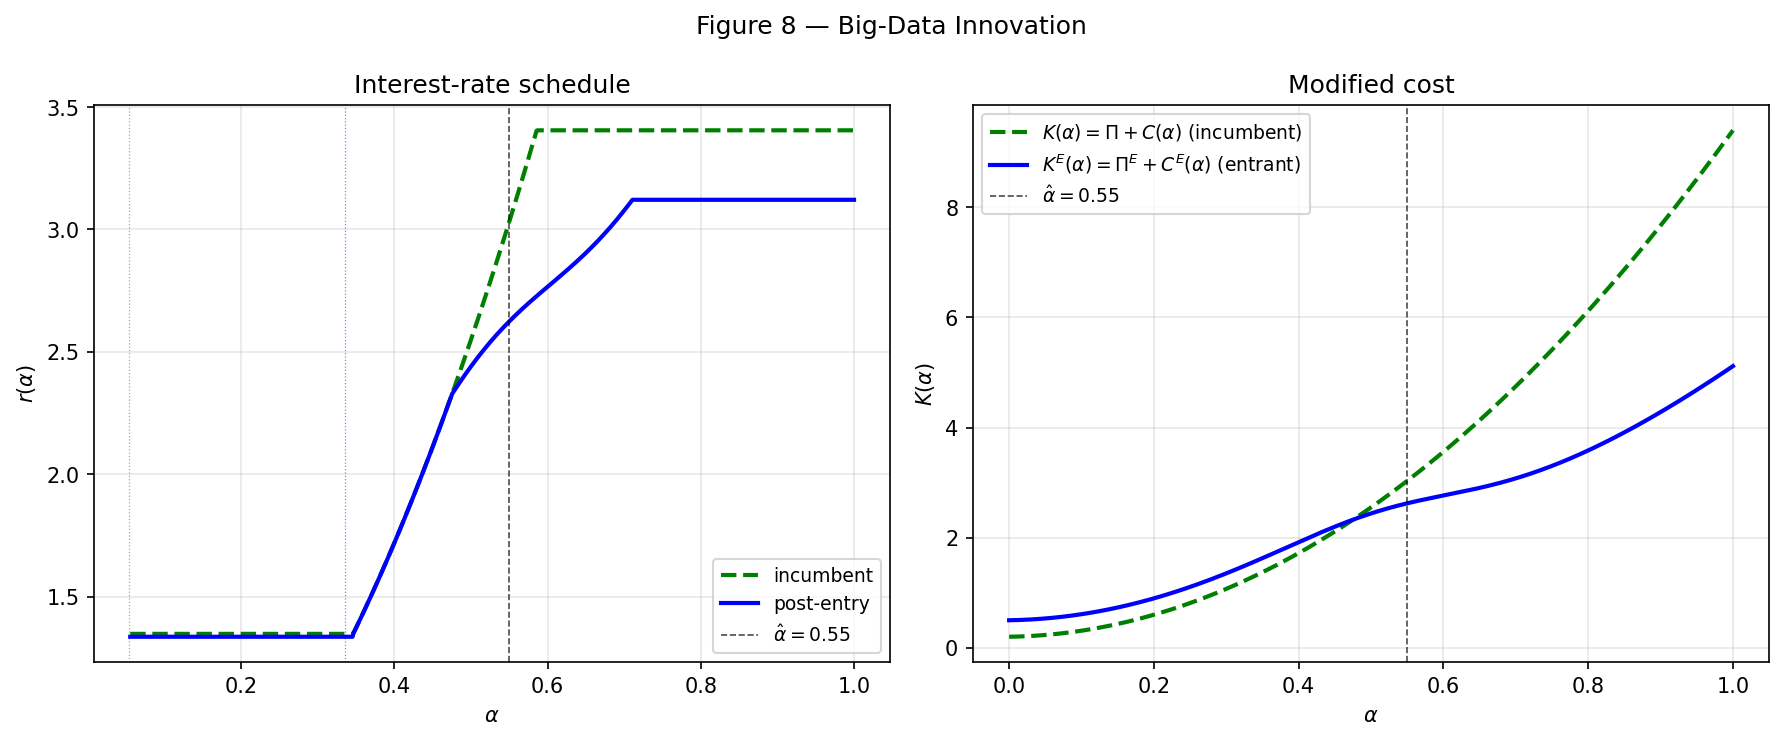
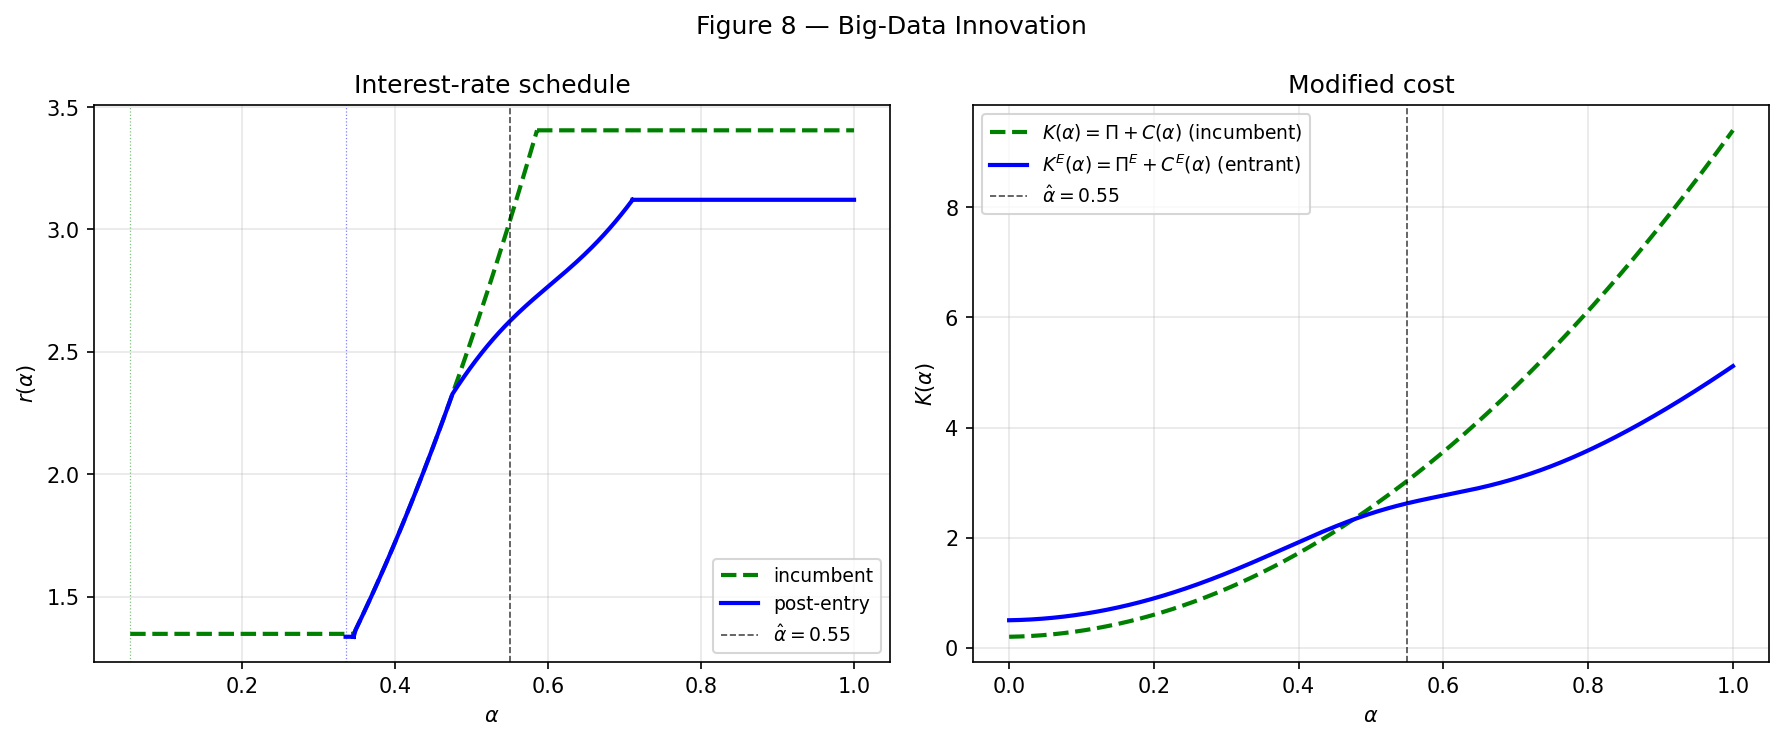
Plot rate discontinuities as gaps (NaN sentinels) instead of vertical lines
solve_for_config now builds the rate curves piecewise via
_build_rate_curve_piecewise: three segments separated by NaN gaps at
alpha_1 and alpha_2 so matplotlib does not connect across the jumps.
Figure drivers updated to use the new r_inc_alphas / r_E_alphas arrays.

diff --git a/mainE_python.py b/mainE_python.py
@@ -2247,6 +2247,30 @@ def convergence_test(deltas=None):
 # Public API for figure-driver scripts
 # =============================================================================
 
+def _build_rate_curve_piecewise(rate_fn, alpha0, alpha1, alpha2, n=400):
+    """Construct a rate curve r(α) with NaN sentinels at each discontinuity.
+
+    Returns (alphas, rates) where matplotlib will draw separate segments for
+    Region I (pooling, [α₀, α₁)), Region II (CIM, [α₁, α₂)), and Region III
+    (NS, [α₂, 1]), separated by NaN gaps at α₁ and α₂.
+
+    rate_fn(alpha_array, alpha0, alpha1, alpha2) — vectorized rate function
+    matching the rfun / rfunE signature.
+    """
+    eps = 1e-6
+    # Three segments, each sampled densely; NaN sentinels between them.
+    seg1_a = np.linspace(alpha0, alpha1 - eps, max(2, int(n * (alpha1 - alpha0))))
+    seg2_a = np.linspace(alpha1, alpha2 - eps, max(2, int(n * (alpha2 - alpha1))))
+    seg3_a = np.linspace(alpha2, 1.0, max(2, int(n * (1.0 - alpha2))))
+    seg1_r = rate_fn(seg1_a, alpha0, alpha1, alpha2)
+    seg2_r = rate_fn(seg2_a, alpha0, alpha1, alpha2)
+    seg3_r = rate_fn(seg3_a, alpha0, alpha1, alpha2)
+    nan = np.array([np.nan])
+    alphas = np.concatenate([seg1_a, nan, seg2_a, nan, seg3_a])
+    rates = np.concatenate([seg1_r, nan, seg2_r, nan, seg3_r])
+    return alphas, rates
+
+
 def solve_for_config(name):
     """Run incumbent (and entry, if configured) solve for a named config.
 
@@ -2274,7 +2298,9 @@ def solve_for_config(name):
 
     run_baseline()
     alphas_plot = np.linspace(0.0, 1.0, 1000)
-    r_inc_plot = rfun(alphas_plot, g.alpha0, g.alpha1, g.alpha2)
+    # Build the incumbent rate curve piecewise with NaN gaps at α₁ and α₂.
+    r_inc_alphas, r_inc_plot = _build_rate_curve_piecewise(
+        rfun, g.alpha0, g.alpha1, g.alpha2)
     K_inc_fine = np.array([_scalar(cfun(a)) for a in g.baseline_alphas_fine]) + g.Pi
     K_inc_plot = np.array([_scalar(cfun(a)) for a in alphas_plot]) + g.Pi
 
@@ -2291,6 +2317,7 @@ def solve_for_config(name):
         'gamma_inc': g.gamma_inc_fine.copy(),
         'K_inc_fine': K_inc_fine,
         'alphas_plot': alphas_plot,
+        'r_inc_alphas': r_inc_alphas,
         'r_inc_plot': r_inc_plot,
         'K_inc_plot': K_inc_plot,
         'has_entry': cfg.get('has_entry', True),
@@ -2300,7 +2327,8 @@ def solve_for_config(name):
         almassE, wmassE, gammaE, WE = run_mainE()
         K_E_fine = np.array([_scalar(cfunE(a)) for a in g.baseline_alphas_fine]) + g.PiE
         K_E_plot = np.array([_scalar(cfunE(a)) for a in alphas_plot]) + g.PiE
-        r_E_plot = rfunE(alphas_plot, min(g.alpha0, g.alpha0E), g.alpha1E, g.alpha2E)
+        r_E_alphas, r_E_plot = _build_rate_curve_piecewise(
+            rfunE, max(g.alpha0E, g.alpha0), g.alpha1E, g.alpha2E)
         result.update({
             'alpha0E': g.alpha0E,
             'alpha1E': g.alpha1E,
@@ -2309,6 +2337,7 @@ def solve_for_config(name):
             'rnsE': getattr(g, 'rnsE', None),
             'K_E_fine': K_E_fine,
             'K_E_plot': K_E_plot,
+            'r_E_alphas': r_E_alphas,
             'r_E_plot': r_E_plot,
             'almassE': almassE,
             'wE': wmassE,

diff --git a/make_figure7.py b/make_figure7.py
@@ -22,11 +22,11 @@ def main():
 
     # --- Panel 1: r(alpha) ---
     ax = axes[0]
-    ax.plot(incumbent['alphas_plot'], incumbent['r_inc_plot'],
+    ax.plot(incumbent['r_inc_alphas'], incumbent['r_inc_plot'],
             'g--', lw=2, label='incumbent')
-    ax.plot(sp_highPiE['alphas_plot'], sp_highPiE['r_E_plot'],
+    ax.plot(sp_highPiE['r_E_alphas'], sp_highPiE['r_E_plot'],
             'b-',  lw=2, label=r'SP entry, $\Pi^E > \bar\Pi^E$')
-    ax.plot(sp_lowPiE['alphas_plot'],  sp_lowPiE['r_E_plot'],
+    ax.plot(sp_lowPiE['r_E_alphas'],  sp_lowPiE['r_E_plot'],
             'r-',  lw=2, label=r'SP entry, $\Pi^E < \bar\Pi^E$')
     for cfg, color in [(incumbent, 'g'), (sp_highPiE, 'b'), (sp_lowPiE, 'r')]:
         ax.axvline(cfg['alpha0'], color=color, ls=':', lw=0.5, alpha=0.5)

diff --git a/make_figure9a.py b/make_figure9a.py
@@ -17,8 +17,8 @@ def main():
 
     # --- Panel 1: r(alpha) ---
     ax = axes[0]
-    ax.plot(res['alphas_plot'], res['r_inc_plot'], 'g--', lw=2, label='incumbent')
-    ax.plot(res['alphas_plot'], res['r_E_plot'],   'b-',  lw=2, label='post-entry')
+    ax.plot(res['r_inc_alphas'], res['r_inc_plot'], 'g--', lw=2, label='incumbent')
+    ax.plot(res['r_E_alphas'],   res['r_E_plot'],   'b-',  lw=2, label='post-entry')
     ax.axvline(res['alpha0'],  color='g', ls=':', lw=0.6, alpha=0.5)
     ax.axvline(res['alpha0E'], color='b', ls=':', lw=0.6, alpha=0.5)
     ax.set_xlabel(r'$\alpha$'); ax.set_ylabel(r'$r(\alpha)$')

diff --git a/make_figure8.py b/make_figure8.py
@@ -16,8 +16,8 @@ def main():
 
     # --- Panel 1: r(alpha) ---
     ax = axes[0]
-    ax.plot(res['alphas_plot'], res['r_inc_plot'], 'g--', lw=2, label='incumbent')
-    ax.plot(res['alphas_plot'], res['r_E_plot'],   'b-',  lw=2, label='post-entry')
+    ax.plot(res['r_inc_alphas'], res['r_inc_plot'], 'g--', lw=2, label='incumbent')
+    ax.plot(res['r_E_alphas'],   res['r_E_plot'],   'b-',  lw=2, label='post-entry')
     ax.axvline(res['alpha0'],  color='g', ls=':', lw=0.6, alpha=0.5)
     ax.axvline(res['alpha0E'], color='b', ls=':', lw=0.6, alpha=0.5)
     alpha_hat = res['config']['cfunE_params']['alpha_hat']

diff --git a/make_figure9b.py b/make_figure9b.py
@@ -17,8 +17,8 @@ def main():
 
     # --- Panel 1: r(alpha) ---
     ax = axes[0]
-    ax.plot(res['alphas_plot'], res['r_inc_plot'], 'g--', lw=2, label='incumbent')
-    ax.plot(res['alphas_plot'], res['r_E_plot'],   'b-',  lw=2, label='post-entry')
+    ax.plot(res['r_inc_alphas'], res['r_inc_plot'], 'g--', lw=2, label='incumbent')
+    ax.plot(res['r_E_alphas'],   res['r_E_plot'],   'b-',  lw=2, label='post-entry')
     ax.axvline(res['alpha0'],  color='g', ls=':', lw=0.6, alpha=0.5)
     ax.axvline(res['alpha0E'], color='b', ls=':', lw=0.6, alpha=0.5)
     params = res['config'].get('cfunE_params', {})
